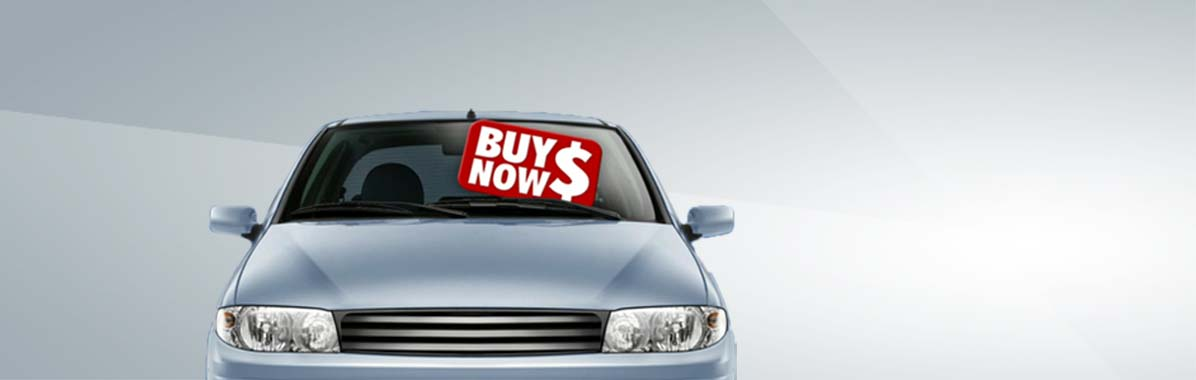
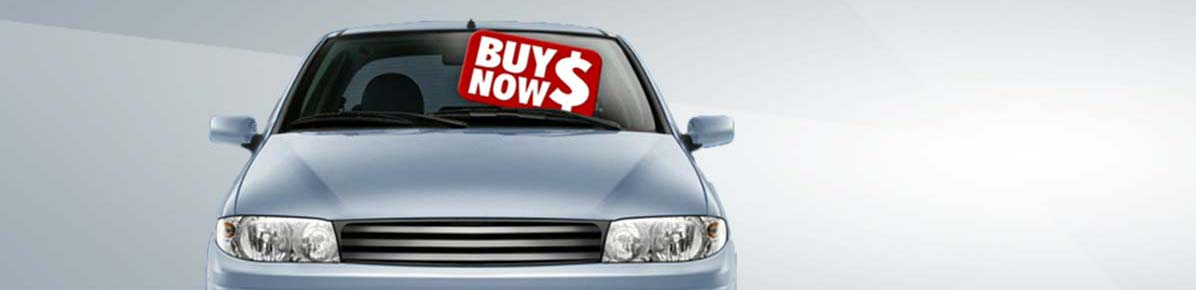
1. add banner2.gif 2. modify height of slider 3. remove defaulf value of auction.start_at, auction.expired_at 4. deposit become mass-assigned 5. fix some bugs.

diff --git a/app/models/auction.rb b/app/models/auction.rb
@@ -69,15 +69,15 @@ class Auction < ActiveRecord::Base
   attr_accessor :expired_after
   #validates_inclusion_of :expired_after, :in => (1..MAX_EXPIRED_AFTER).to_a.collect{|d| d}, :on => :create
   def open?    
-    (self.start_at!=Time.at(0)) and (status? :active) and ( DateTime.now > self.start_at ) and  ( self.start_at.future? )      
+    (self.start_at.present?) and (status? :active) and ( self.start_at.future? )      
   end
 
   def opened?    
-    (self.start_at!=Time.at(0)) and (status? :active) and ( DateTime.now > self.start_at ) and  ( DateTime.now < self.expired_at )      
+    (self.start_at.present?) and (status? :active) and ( DateTime.now > self.start_at ) and  ( DateTime.now < self.expired_at )      
   end
   
   def closed?
-    (self.start_at!=Time.at(0)) and (status? :active) and ( DateTime.now > self.expired_at )
+    (self.start_at.present?) and (status? :active) and ( DateTime.now > self.expired_at )
   end
   
   def close! #choose_win_offer

diff --git a/app/controllers/admin/users_controller.rb b/app/controllers/admin/users_controller.rb
@@ -10,23 +10,24 @@ class Admin::UsersController < Admin::ApplicationController
 
   def new
     @title = "管理平台 :  新建用户"
+    @company = Company.new
+    @useradmin = @company.members.build
   end
 
   def create
+    @title = "管理平台 :  新建用户"
     company = params[:user].delete("company")
     @company = Company.new(company)
-    if @company.save
+    
       deposit = params[:user].delete("deposit")
       @useradmin = @company.members.build(params[:user])
       @useradmin.deposit = deposit
-      if @useradmin.save
+      if @company.save
         redirect_to admin_users_path
       else
         render :action => :new
       end
-    else
-      render :action => :new
-    end
+    
   end
 
 	def edit

diff --git a/db/migrate/20130612055840_add_user_phone.rb b/db/migrate/20130612055840_add_user_phone.rb
@@ -8,7 +8,8 @@ class AddUserPhone < ActiveRecord::Migration
     add_column :auctions, :expected_expired_at, :datetime
     add_column :auctions, :public_start_at, :datetime
     add_column :auctions, :public_expired_at, :datetime
-    add_column :auctions, :start_at, :datetime, :default=>'1970-01-01 00:00:00'
+    add_column :auctions, :start_at, :datetime
+    # should not set default value, select_datetime option :default would not work.
     add_column :auctions, :starting_price, :float, :default=>0          #起拍价
     add_column :auctions, :price_increment, :float, :default=>0 
     add_column :auctions, :reserve_price, :float, :default=>0 #保留价 

diff --git a/app/controllers/auctions_controller.rb b/app/controllers/auctions_controller.rb
@@ -46,9 +46,9 @@ logger.debug "@offer.price=#{@offer.price}, @auction.current_price=#{@auction.cu
 
     @made_offer = @auction.made_offer?(current_user)
     #@auction.expired_at many be nil
-    if @auction.expired_at and @auction.expired_at.past?
-      @auction.status = Auction::STATUSES[:finished]
-    end
+    #if @auction.expired_at and @auction.expired_at.past?
+    #  @auction.status = Auction::STATUSES[:finished]
+    #end
 
     unless (@auction.allowed_to_see?(current_user))
       render :text => t("flash.general.error.privileges"), :status => :forbidden

diff --git a/app/controllers/cars_controller.rb b/app/controllers/cars_controller.rb
@@ -27,7 +27,7 @@ class CarsController < ApplicationController
       end
     end
     
-    @cars = Car.scoped.includes([:car_images, :auction,:model, :accident,[:publisher=>:company]]).where(filters).paginate(:page => params[:page], :per_page => 20)
+    @cars = Car.scoped.includes([:car_images, :auction,:model, :accident,[:publisher=>:company]]).where(["status=?",2]).where(filters).paginate(:page => params[:page], :per_page => 20)
 
     respond_to do |format|
       format.html # index.html.erb

diff --git a/app/models/user.rb b/app/models/user.rb
@@ -1,7 +1,7 @@
 # encoding: utf-8
 class User < ActiveRecord::Base
   attr_accessible :login, :name, :lastname, :email, :country, :status, :password, :password_confirmation, :description, :avatar, 
-    :company_id,:province_id, :city_id, :cellphone, :id_number,:vercode
+    :company_id,:province_id, :city_id, :cellphone, :id_number,:vercode,  :deposit
   
 	has_attached_file :avatar, :styles => { :thumb => "100x100>" }, :default_url => "/images/avatars/missing.png"
 	belongs_to :company

diff --git a/app/models/car_file.rb b/app/models/car_file.rb
@@ -13,7 +13,7 @@ class CarFile < ActiveRecord::Base
   before_post_process :skip_file_other_than_image # file other than images
 
   def skip_file_other_than_image
-    %w(image/gif image/jpeg image/bmp).include?(uploaded_content_type)
+    %w(image/gif image/jpeg image/bmp image/png).include?(uploaded_content_type)
   end
 
   #scope :for_license, lambda { where(:file_type => TYPES[:license])}

diff --git a/db/migrate/20100727154409_create_auctions.rb b/db/migrate/20100727154409_create_auctions.rb
@@ -11,7 +11,7 @@ class CreateAuctions < ActiveRecord::Migration
       t.text :description, :length => 2000, :null => false
       t.boolean :highlight, :default => 0
 
-      t.timestamp :expired_at, :default=>'1970-01-01 00:00:00'
+      t.timestamp :expired_at
       t.integer :offers_count, :default => 0
       t.integer :visits, :default => 0, :null => false
       

diff --git a/app/controllers/case/cars_controller.rb b/app/controllers/case/cars_controller.rb
@@ -208,7 +208,7 @@ class Case::CarsController < Case::ApplicationController
     @car.destroy
 
     respond_to do |format|
-      format.html { redirect_to case_cars_url }
+      format.html { redirect_to case_cars_url(:process_method=>@car.status) }
       format.json { head :no_content }
     end
   end
